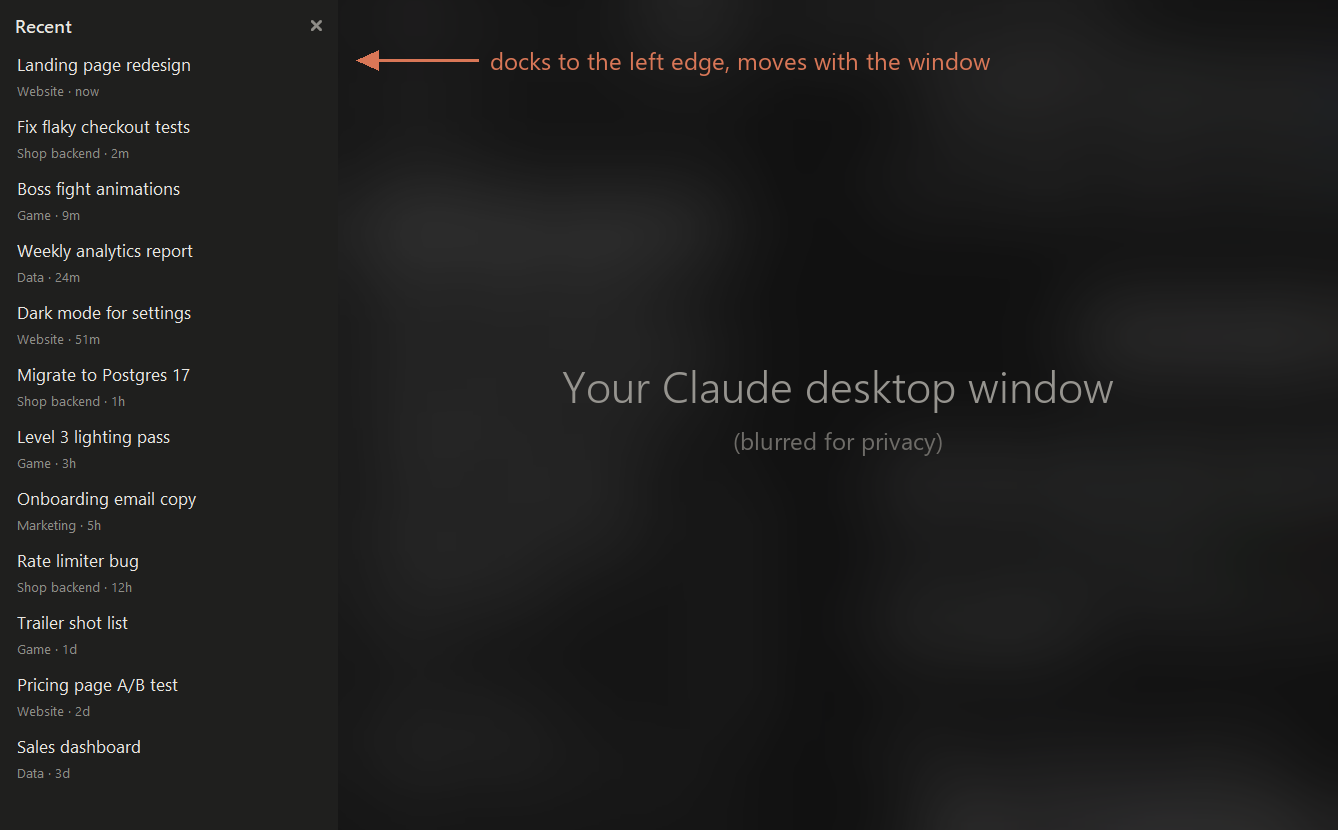
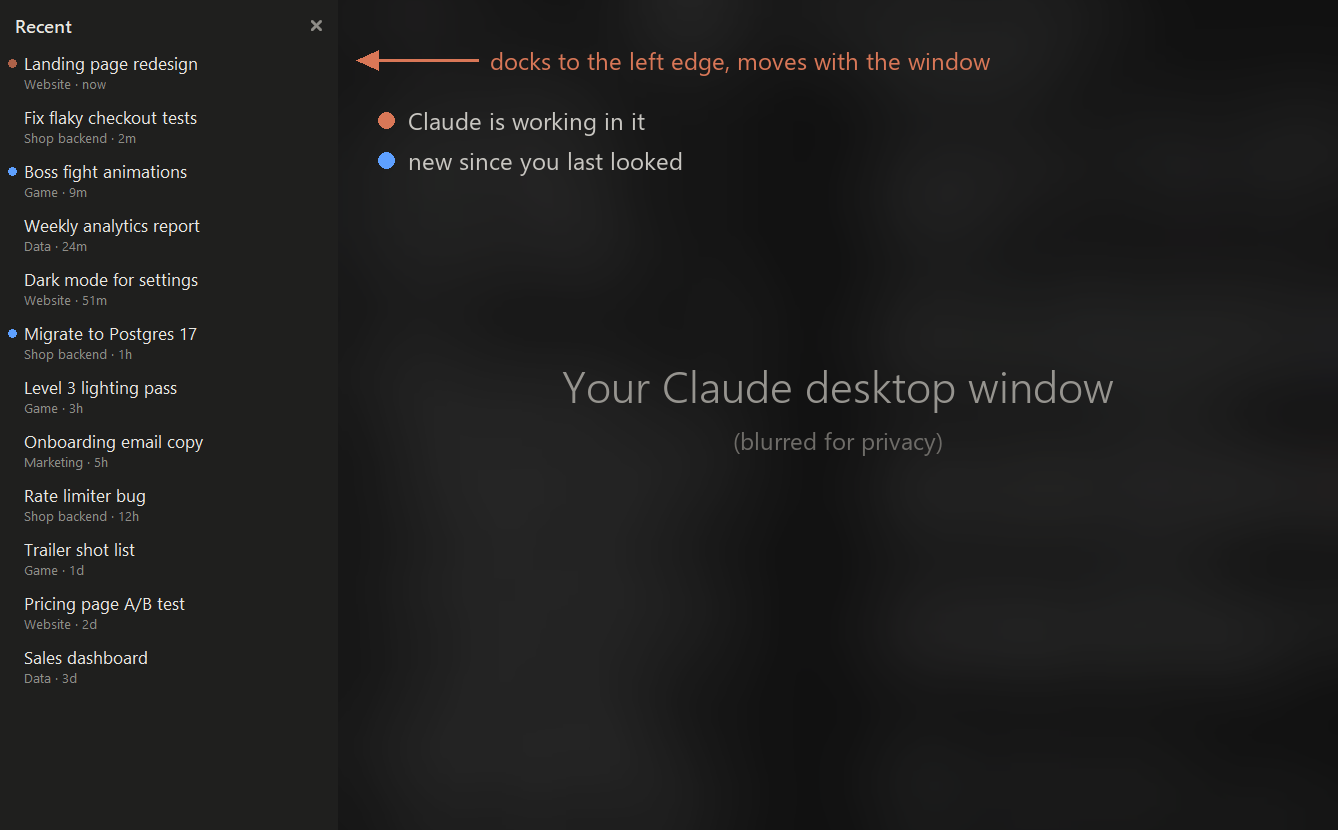
Status dots: pulsing orange while Claude works in a chat, blue when unread
In progress = the last turn edge is the start of the latest user message (matches
the app's own running flag); chats idle for 15 min never count as running.
Unread = activity after the chat was last focused. README image and docs updated.

Changed region(s): [[0.0, 0.0602, 0.1532, 0.9337], [0.2758, 0.1205, 0.5209, 0.2108]]

diff --git a/README.md b/README.md
@@ -16,6 +16,7 @@ Sidebar groups are great for keeping chats organised by project. But once you ha
 This panel adds one, without changing anything in the app:
 
 - **Every chat, newest first**, whatever group it's in
+- **Status dots**: a pulsing orange dot while Claude is working in a chat, a blue dot when there's something new you haven't looked at
 - **Its group and how long ago you used it** under each title (`Website · 2m`)
 - **Click to open** that chat in Claude
 - **Snaps to Claude's left edge** with no gap: it moves and resizes with the window and hides when Claude is minimised
@@ -93,6 +94,8 @@ BG, ROW_HOVER, TEXT, DIM, ACCENT = '#1f1f1e', '#2c2c2a', '#e8e6e1', '#8f8d88', '
 | --- | --- |
 | Chat titles and last-used times | `%APPDATA%\Claude\claude-code-sessions\…\local_*.json` |
 | Sidebar groups | `%APPDATA%\Claude\claude_desktop_config.json` |
+| In progress (orange dot) | a turn has started but not ended: the chat's last turn edge is the start of your latest message. Matches the app's own running flag |
+| Unread (blue dot) | the chat had activity after you last focused it |
 | Opening a chat | the `claude://claude.ai/epitaxy/<session id>` link, which Windows hands to the Claude app |
 | Docking | the panel keeps itself directly above the Claude window and hides when Claude is minimised. It snaps to Claude's visible edge and covers its 1-pixel border, so the two read as one window. It is deliberately not an "owned" window: owning a window from another program ties the two programs' input together and made dragging Claude laggy |
 
